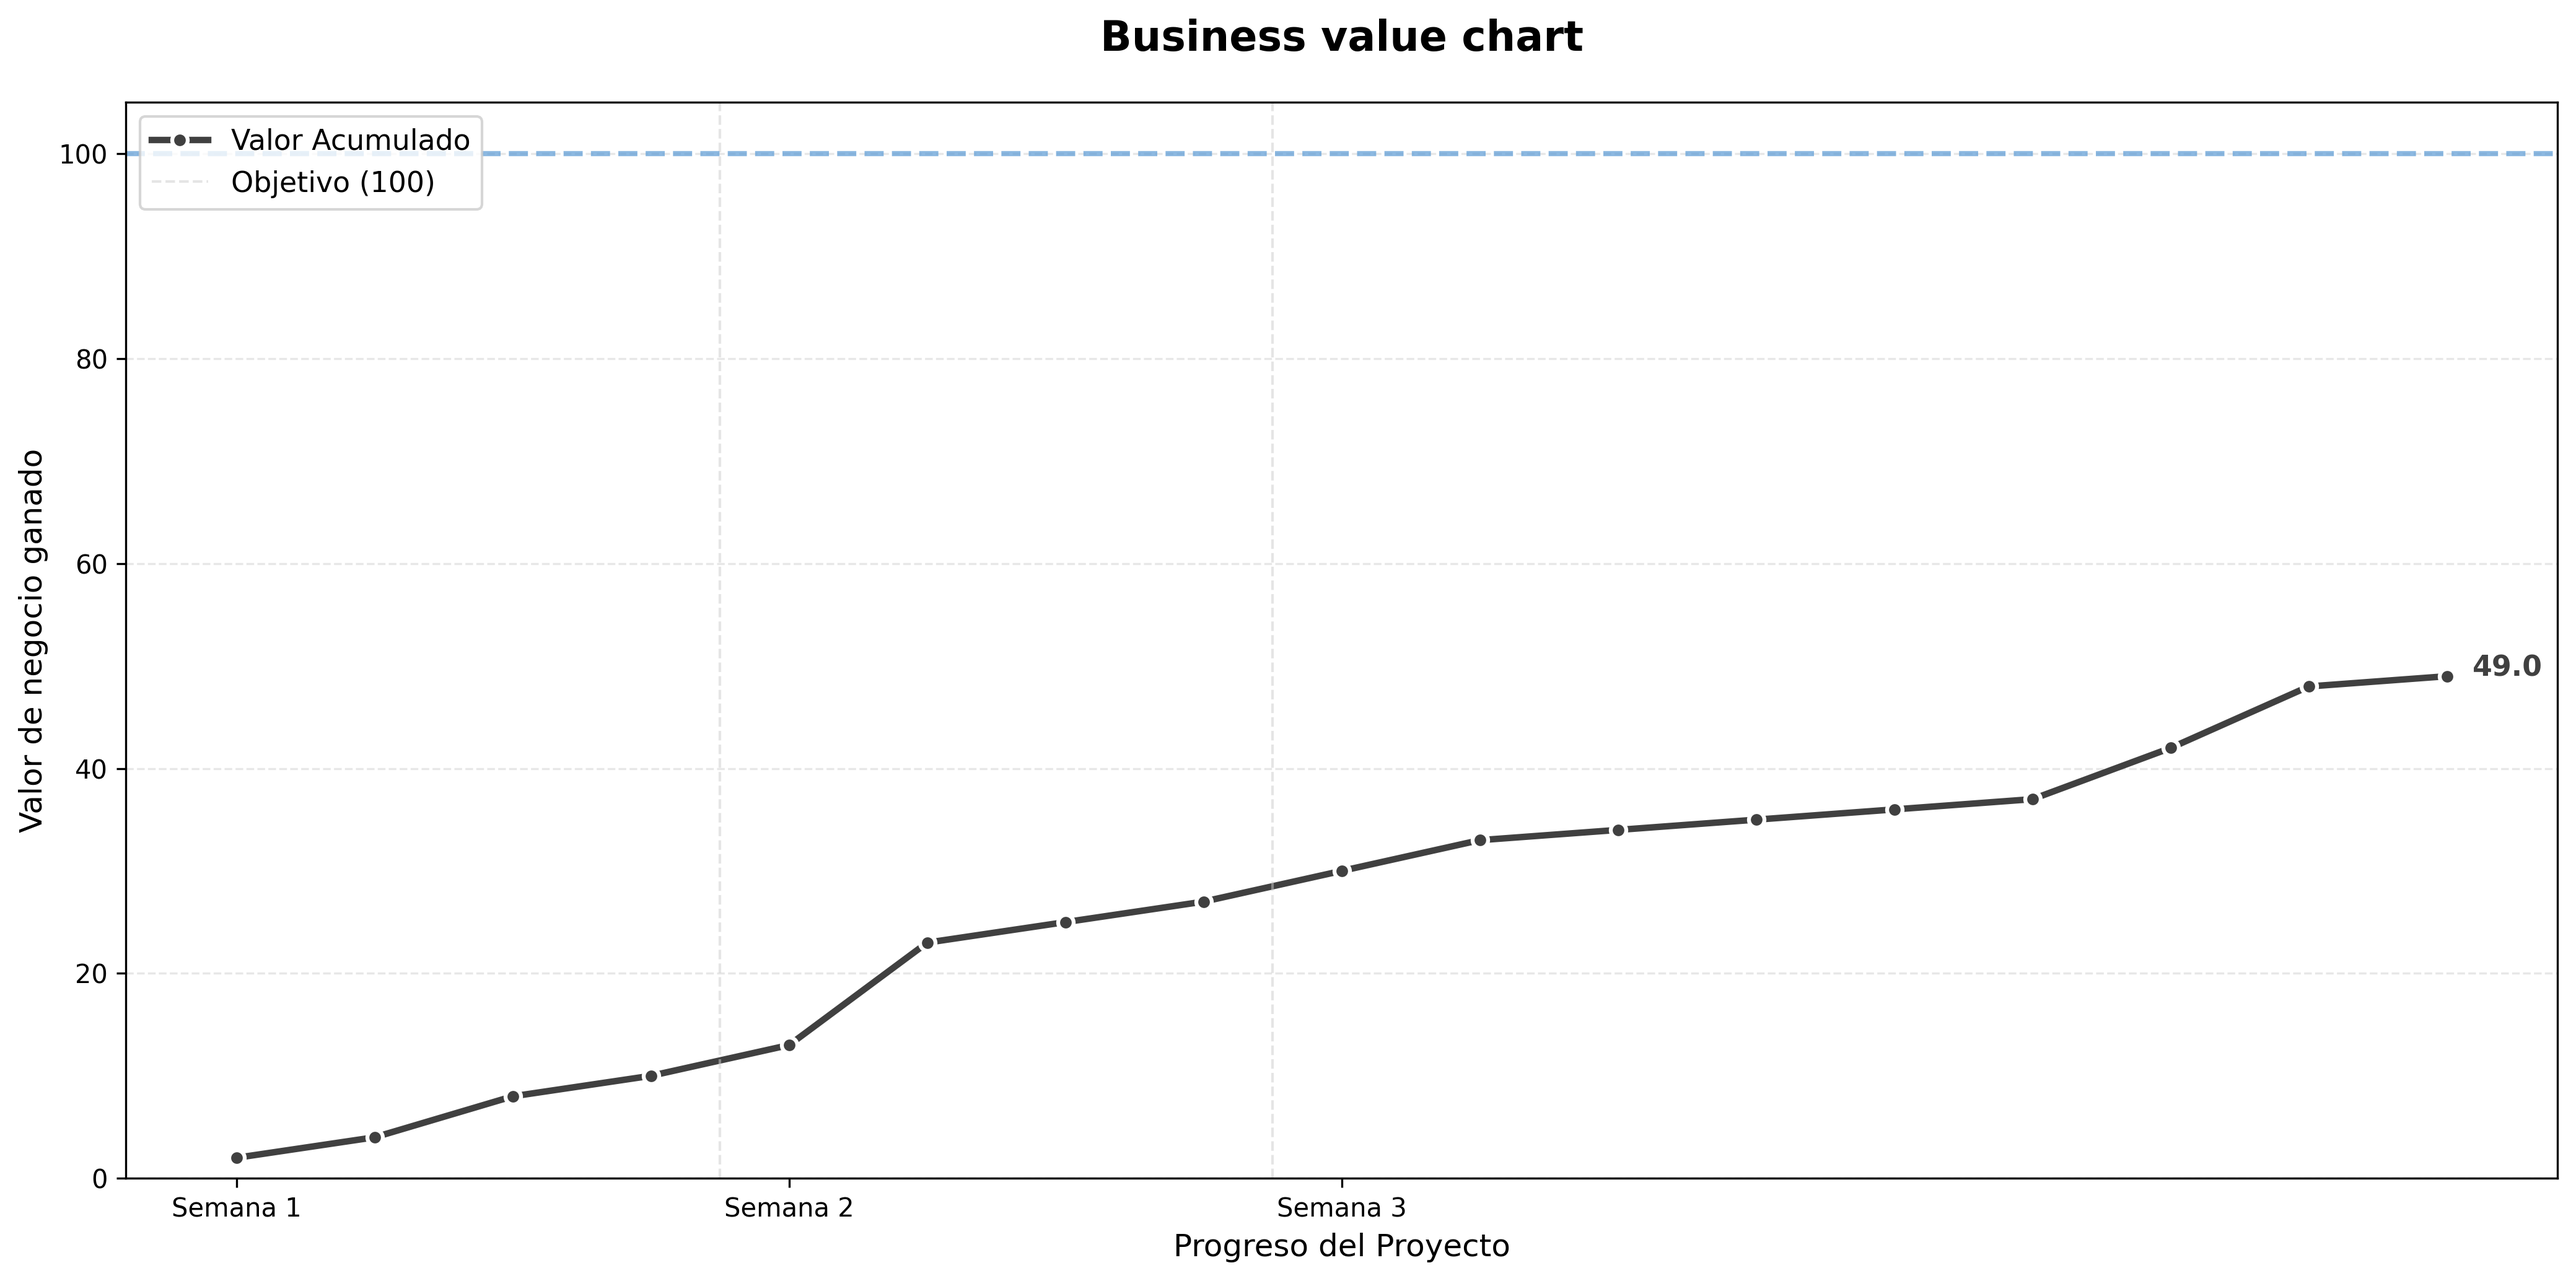
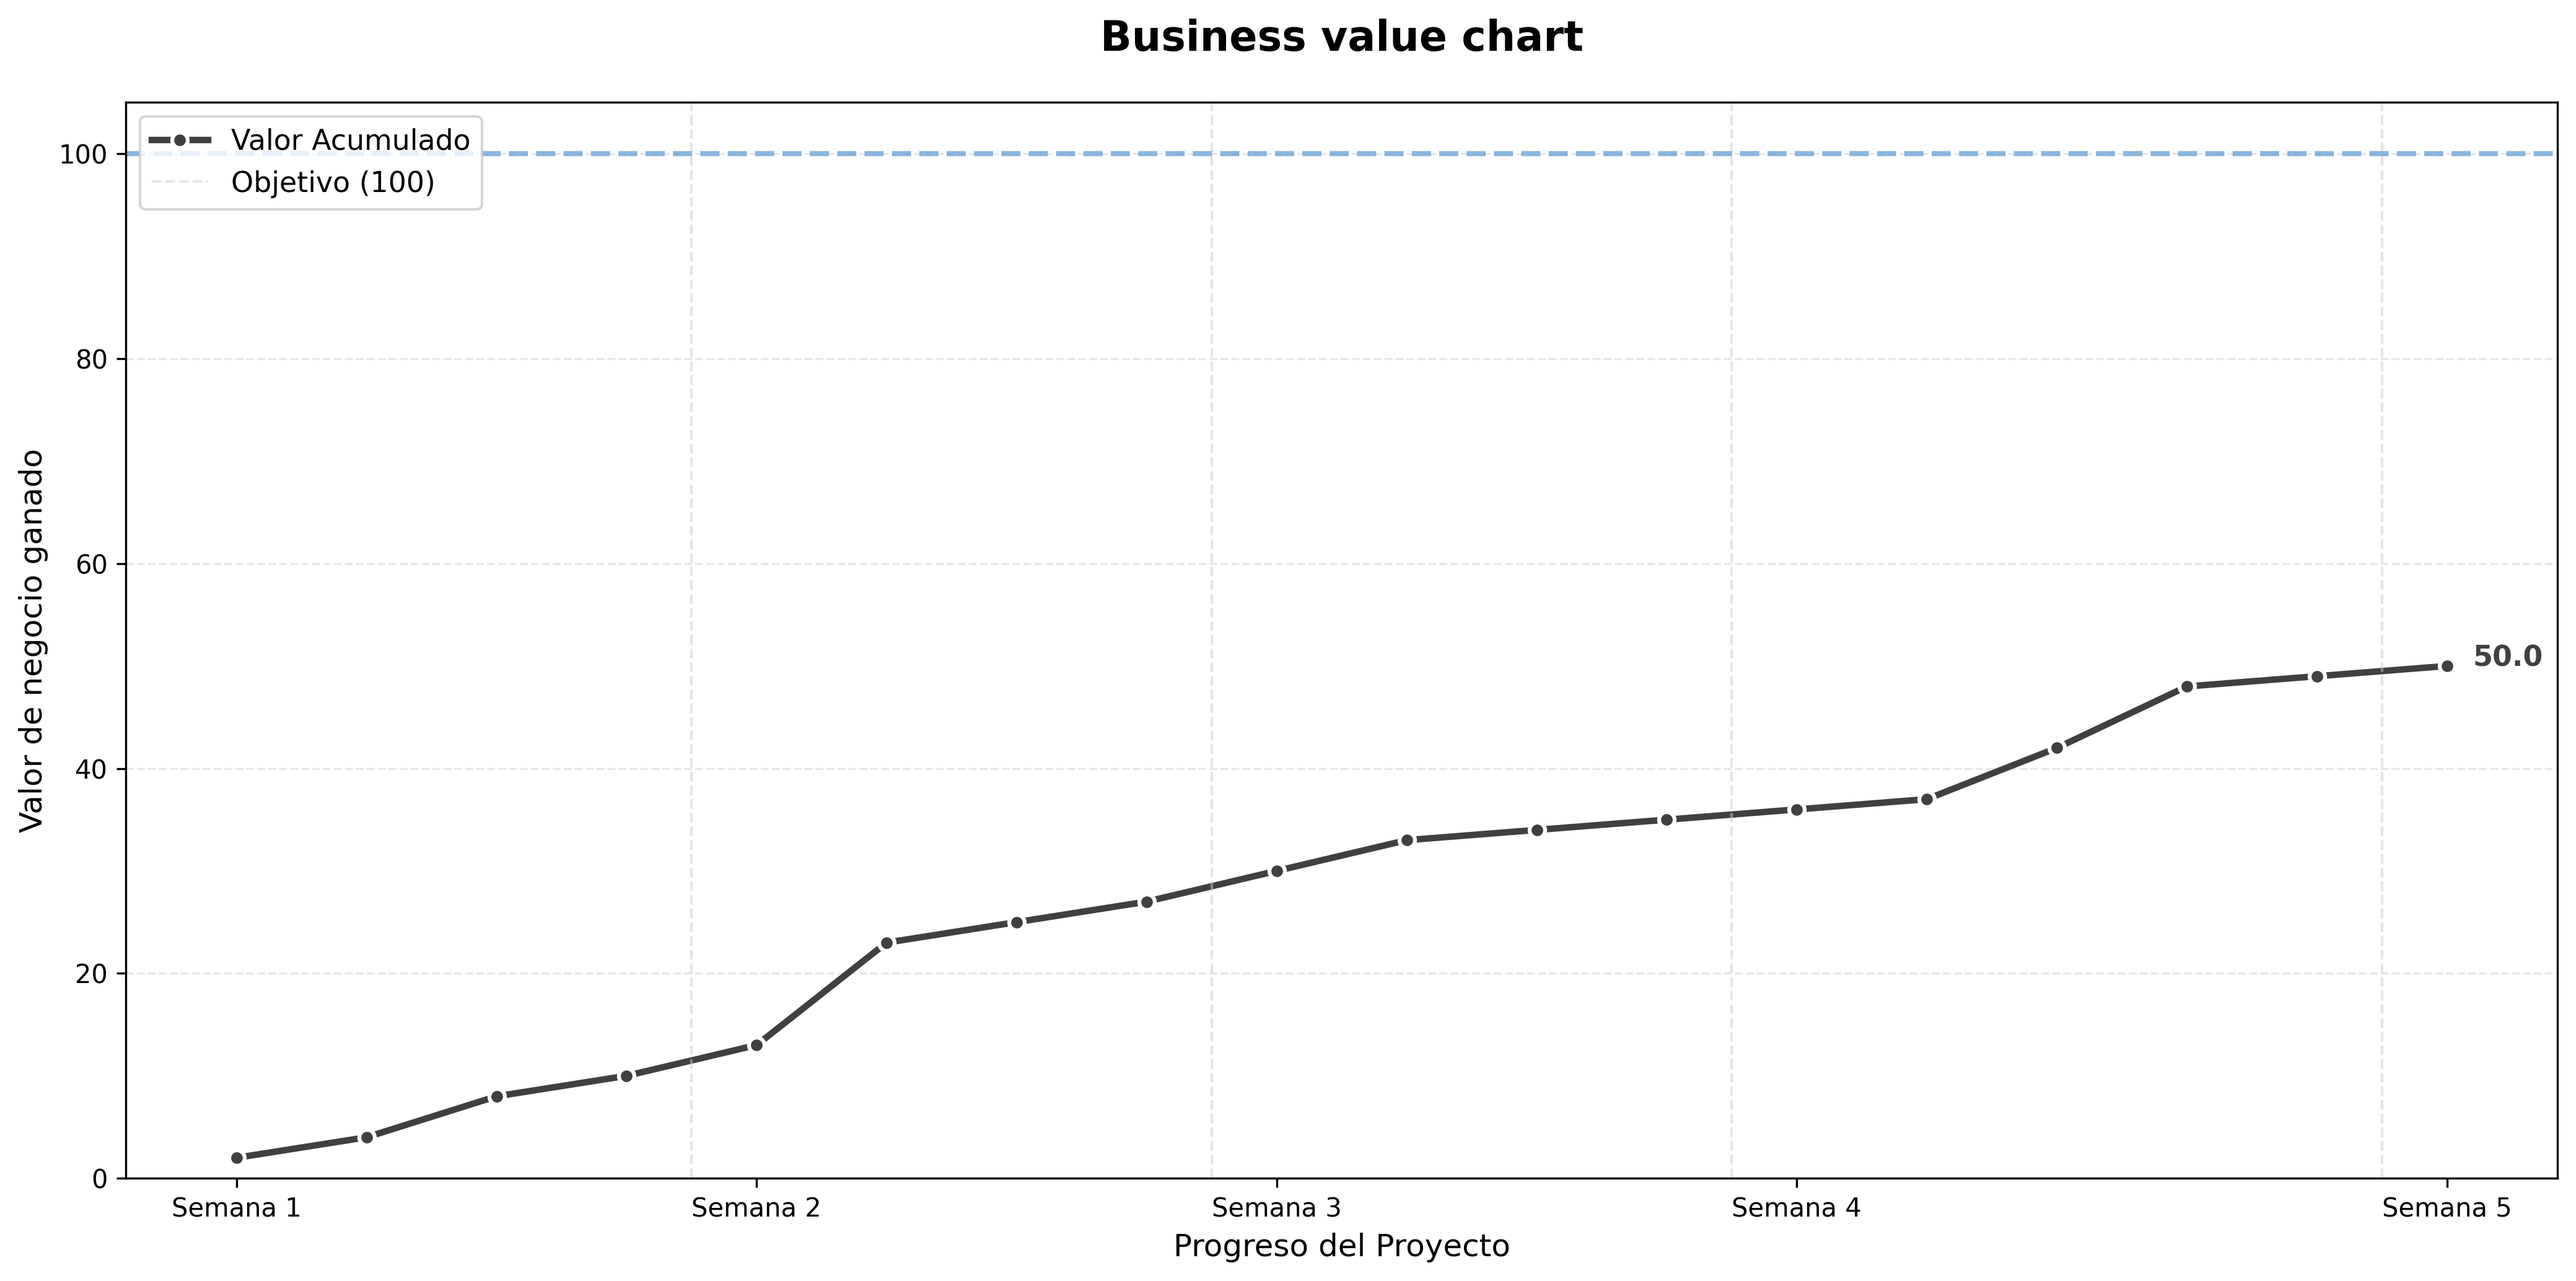
chore: update project charts [skip ci]

diff --git a/scripts-entregas/CHARTS.md b/scripts-entregas/CHARTS.md
@@ -1,19 +1,19 @@
 # Gráficas del proyecto no generadas por Jira - Proyecto Final MISO 202520 G2
 
-**Última actualización:** 2025-11-03 01:53:49 UTC
+**Última actualización:** 2025-11-06 03:20:22 UTC
 
 ## Resumen de métricas del proyecto
 
 ### Business value chart
-- **Valor total:** 49.0 / 100 puntos (49%)
-- **Historias completadas:** 17
-- **Valor restante:** 51.0 puntos
+- **Valor total:** 50.0 / 100 puntos (50%)
+- **Historias completadas:** 18
+- **Valor restante:** 50.0 puntos
 
 ### Velocity chart
 - **Semanas registradas:** 7
 - **Total planeado:** 110.0 puntos de historia
-- **Total completado:** 65.0 puntos de historia
-- **Velocidad promedio:** 9.3 puntos/semana
+- **Total completado:** 70.0 puntos de historia
+- **Velocidad promedio:** 10.0 puntos/semana
 
 ### Release burndown chart
 - **Alcance inicial:** 110 puntos de historia
@@ -84,11 +84,18 @@ Puntos de historia restantes al inicio de cada sprint vs burndown ideal.
 - **HUP-011** - 2025-10-23
 - **HUP-009** - 2025-10-25
 - **HUP-010** - 2025-10-25
+
+### Semana 4
+
 - **HUP-014** - 2025-10-26
 - **HUP-012** - 2025-11-01
 - **HUP-015** - 2025-11-01
 - **HUP-016** - 2025-11-01
 - **HUP-013** - 2025-11-01
+
+### Semana 5
+
+- **HUP-017** - 2025-11-05
 
 
 ---
